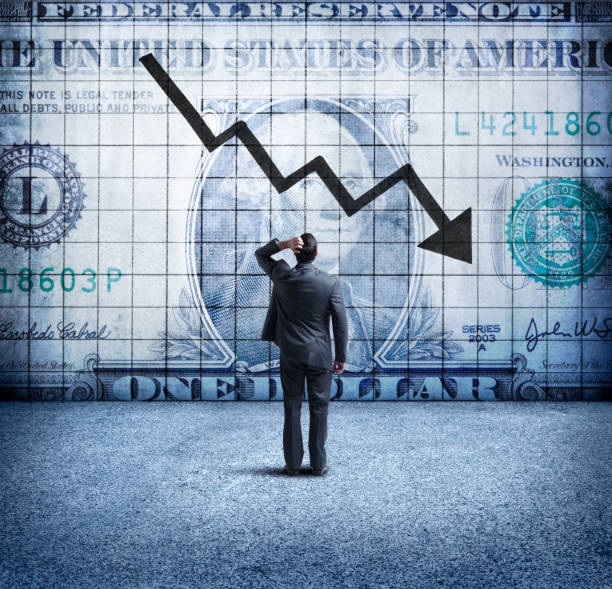
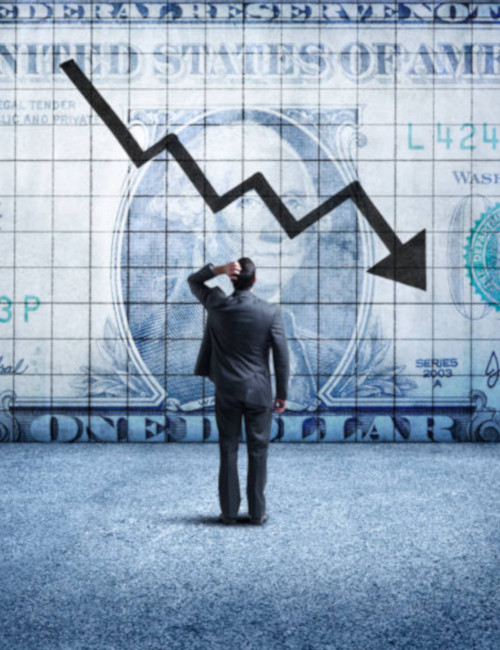
sorted topic tags; new images; updated templates; template selection from json data

diff --git a/script.js b/script.js
@@ -4,73 +4,83 @@ const fillTemplate = (templateString, templateVars) => {
 
 const articlesByTag = {}; // a very basic search index
 
-(async () => {
-  // load all the article data
-  const allArticleData = await fetch("articles.json").then(res => { return res.json(); });
+(() => {
+    // load all the article data
+    fetch("articles.json")
+	.then(res => { return res.json(); })
+	.then(allArticleData => {
 
-  // load the panel template
-  const panelTemplate  = await fetch("templates/card-horizontal.html").then(res => { return res.text(); });
+	    // keep track of the article ids (sequentially) so we can reference them later when searching for tags
+	    let articleId = 0;
 
-  // keep track of the article ids (sequentially) so we can reference them later when searching for tags
-  let articleId = 0;
+	    // iterate over articles and fill in a copy of the template for each one
+	     allArticleData
+		.forEach(articleData => {
+		    const templateName = articleData.template || "card-horizontal";
+		    // load the panel template
+		    fetch(`templates/${templateName}.html`)
+			.then(res => { return res.text(); })
+			.then(panelTemplate => {
+			    return $(fillTemplate(panelTemplate, {
+				articleId,
+				...articleData,
+				pdf: articleData.pdf.match(/^http/) ? articleData.pdf : `pdf/${articleData.pdf}`,
+			    }));
+			})
+			.then(panel => {
+			    // "append" function tacks the panel content onto the end of the article container
+			    $('#articles').append(panel);
+			});
 
-  // iterate over articles and fill in a copy of the template for each one
-  allArticleData.forEach(articleData => {
-    const panel = $(fillTemplate(panelTemplate, {articleId,
-                                                 ...articleData,
-                                                 pdf: articleData.pdf.match(/^http/) ? articleData.pdf : `pdf/${articleData.pdf}`,
-                                                }));
+		    if(articleData.topics) {
+			// if there are tags for this article, keep track of them
+			articleData.topics.forEach((tag) => {
+			    if(!articlesByTag[tag]) {
+				// if we haven't stored any articles for this tag, initialise with an empty array
+				articlesByTag[tag] = [];
+			    }
 
-    // add each new panel to the article container
-    //panel.css({"backgroundImage":`url(/thumbnail/${articleData.thumbnail})`});
+			    // store the article id against this tag (meaning we can look up the article ids for any given tag when searching)
+			    articlesByTag[tag].push(articleId);
+			});
+		    }
 
-    // "append" function tacks the panel content onto the end of the article container
-    $('#articles').append(panel);
-	
-    if(articleData.tags) {
-      // if there are tags for this article, keep track of them
-      articleData.tags.forEach((tag) => {
-        if(!articlesByTag[tag]) {
-          // if we haven't stored any articles for this tag, initialise with an empty array
-          articlesByTag[tag] = [];
-        }
+		    articleId += 1;
+		});
+	})
 
-        // store the article id against this tag (meaning we can look up the article ids for any given tag when searching)
-        articlesByTag[tag].push(articleId);
-      });
-    }
+	.then(() => {
+	    console.log(articlesByTag);
+	    Object.keys(articlesByTag).sort().forEach((tag) => {
+		$('#tags').append($(`<li class="nav-item"><a class="nav-link" href="?tag=${tag}">${tag}</a></li>`));
+	    });
 
-    articleId += 1;
-  });
+	    const tagQuery = document.location.href   // from the URL in the address bar...
+		  .split('#')[0]                    // trim any following internal # anchors
+		  .split('?')[1]                    // trim any preceeding URL
+	    ?.split(/[;&]/)                         // split query parameters by ; or &
+	    ?.filter(x => x.match(/^tag=/))[0]   // discard anything except tag=xxx
+	    ?.split('=')[1];                     // split on = and retain value
 
-  Object.keys(articlesByTag).forEach((tag) => {
-    $('#tags').append($(`<li class="nav-item"><a class="nav-link" href="?tag=${tag}">${tag}</a></li>`));
-  });
+	    const expandArticles = tagQuery ? articlesByTag[decodeURI(tagQuery)] : [ 0 ];
 
-  const tagQuery = document.location.href   // from the URL in the address bar...
-	  .split('#')[0]                    // trim any following internal # anchors
-	  .split('?')[1]                    // trim any preceeding URL
-    ?.split(/[;&]/)                         // split query parameters by ; or &
-	?.filter(x => x.match(/^tag=/))[0]   // discard anything except tag=xxx
-	?.split('=')[1];                     // split on = and retain value
-
-  const expandArticles = tagQuery ? articlesByTag[decodeURI(tagQuery)] : [ 0 ];
-
-  expandArticles?.forEach((articleId) => {
-    $(`#collapse${articleId}`).addClass('show');
-  });
-
-  const pdfModal = document.getElementById('pdfModal');
-  pdfModal.addEventListener('show.bs.modal', event => {
-    // Button that triggered the modal
-    const button = event.relatedTarget
-    // Extract target url from data-bs-* attributes
-    const pdfURL = button.getAttribute('data-bs-whatever')
-    // Update the modal's content.
-    const modalTitle = pdfModal.querySelector('.modal-title')
+	    expandArticles?.forEach((articleId) => {
+		$(`#collapse${articleId}`).addClass('show');
+	    });
+	})
+	.then(() => {
+	    const pdfModal = document.getElementById('pdfModal');
+	    pdfModal.addEventListener('show.bs.modal', event => {
+		// Button that triggered the modal
+		const button = event.relatedTarget
+		// Extract target url from data-bs-* attributes
+		const pdfURL = button.getAttribute('data-bs-whatever')
+		// Update the modal's content.
+		const modalTitle = pdfModal.querySelector('.modal-title')
     
-      const modalBodyEmbed = pdfModal.querySelector('.modal-body')
-      const height = $(window).height() - 100;
-    $(modalBodyEmbed).html(`<embed src="${pdfURL}" frameborder="0" width="100%" height="${height}px">`);
-  })
+		const modalBodyEmbed = pdfModal.querySelector('.modal-body')
+		const height = $(window).height() - 100;
+		$(modalBodyEmbed).html(`<embed src="${pdfURL}" frameborder="0" width="100%" height="${height}px">`);
+	    })
+	});
 })();

diff --git a/templates/card-vertical.html b/templates/card-vertical.html
@@ -1,6 +1,8 @@
 <div class="card" style="width: 18rem;">
-    <img src="..." class="card-img-top" alt="...">
+    <img src="thumbnail/${this.thumbnail}" class="card-img-top" alt="${this.title}">
     <div class="card-body">
-	<p class="card-text">Some quick example text to build on the card title and make up the bulk of the card's content.</p>
+	<h5 class="card-title">${this.title || ""}</h5>
+	<p class="card-text">${this.description || ""}</p>
+	<button type="button" class="btn btn-primary" data-bs-toggle="modal" data-bs-target="#pdfModal" data-bs-whatever="${this.pdf}">Read more</button>
     </div>
 </div>

diff --git a/index.html b/index.html
@@ -32,7 +32,7 @@
 	      <div class="collapse navbar-collapse" id="navbarCollapse">
 		  <ul class="navbar-nav me-auto mb-2 mb-md-0" id="tags">
 		      <li class="nav-item">
-			  <a class="nav-link" aria-current="page" href="#">Home</a>
+			  <a class="nav-link" aria-current="page" href="?">Home</a>
 		      </li>
 		  </ul>
 	      </div>
